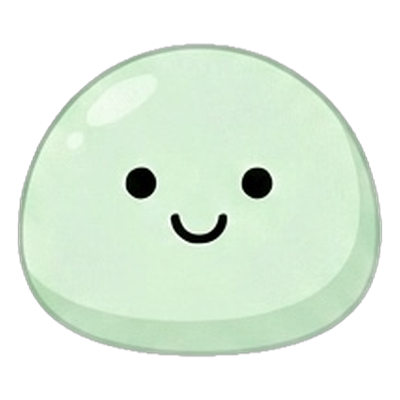
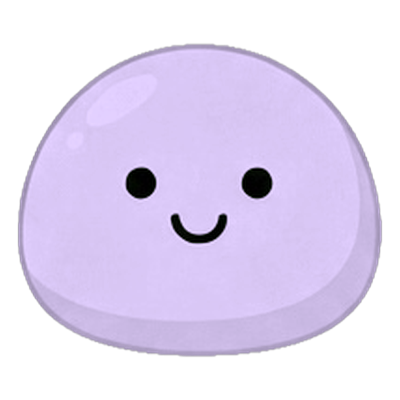
style(mallang): 좋았어요=퍼플라이트·괜찮았어요=보라·그냥저냥=라벤더로 색상 조정

diff --git a/src/lib/mallangSkins.js b/src/lib/mallangSkins.js
@@ -39,9 +39,9 @@ export const MALLANG_EYE_RECT = {
   malang2d: {
     1: { x: 0.25, y: 0.40, w: 0.50, h: 0.11, cw: 400, ch: 400, color: "#5C4250" },
     2: { x: 0.25, y: 0.40, w: 0.50, h: 0.11, cw: 400, ch: 400, color: "#D0C8A3" },
-    3: { x: 0.25, y: 0.40, w: 0.50, h: 0.11, cw: 400, ch: 400, color: "#FFFFFF" },
-    4: { x: 0.25, y: 0.40, w: 0.50, h: 0.11, cw: 400, ch: 400, color: "#D8F0D8" },
-    5: { x: 0.25, y: 0.40, w: 0.50, h: 0.11, cw: 400, ch: 400, color: "#E4F5FC" },
+    3: { x: 0.25, y: 0.40, w: 0.50, h: 0.11, cw: 400, ch: 400, color: "#EAE4FB" },
+    4: { x: 0.25, y: 0.40, w: 0.50, h: 0.11, cw: 400, ch: 400, color: "#D9C7F5" },
+    5: { x: 0.25, y: 0.40, w: 0.50, h: 0.11, cw: 400, ch: 400, color: "#BF8FE9" },
     _color: "#FFFFFF",
   },
 };
